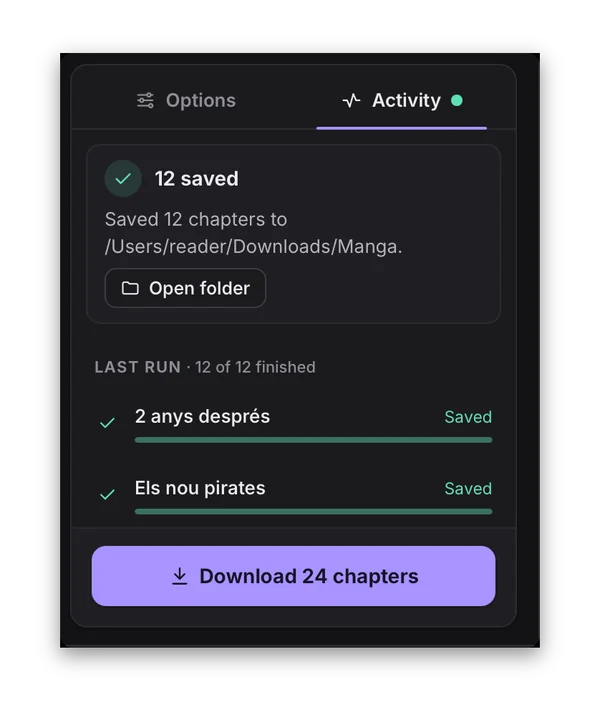
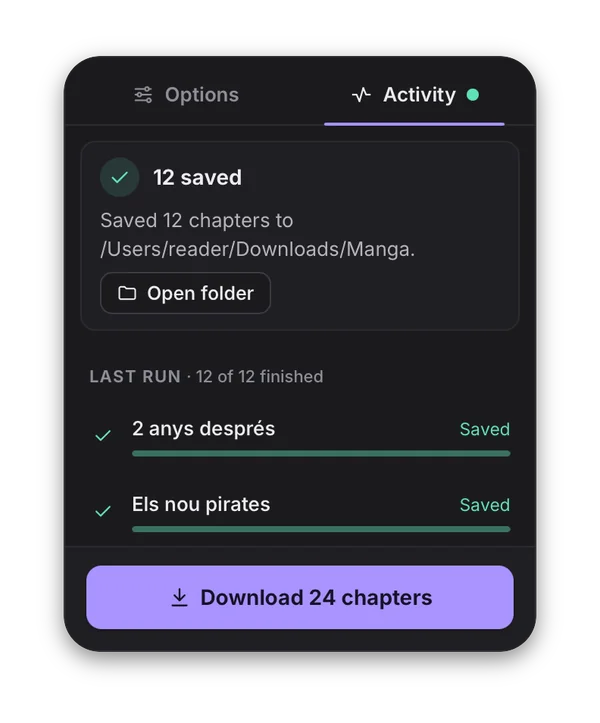
fix(website): crop the screenshots to the panel's own edges (#299)
* fix(website): crop the app panels to their own bounds and radius

* docs(website): rewrap the screenshots paragraph

---------

diff --git a/website/index.html b/website/index.html
@@ -193,7 +193,7 @@
                   <source type="image/webp" srcset="/src/assets/screenshots/chapter-list-light-600.webp 600w, /src/assets/screenshots/chapter-list-light-1000.webp 1000w"
                           sizes="(min-width: 821px) 45vw, 92vw" />
                   <img src="/src/assets/screenshots/chapter-list-light-1000.webp" srcset="/src/assets/screenshots/chapter-list-light-600.webp 600w, /src/assets/screenshots/chapter-list-light-1000.webp 1000w"
-                       sizes="(min-width: 821px) 45vw, 92vw" width="1000" height="799" alt="{{a:desktop.chapterListAlt}}" loading="lazy" />
+                       sizes="(min-width: 821px) 45vw, 92vw" width="1000" height="743" alt="{{a:desktop.chapterListAlt}}" loading="lazy" />
                 </picture>
               </figure>
             </article>
@@ -210,7 +210,7 @@
                   <source type="image/webp" srcset="/src/assets/screenshots/volumes-light-600.webp 600w, /src/assets/screenshots/volumes-light-1000.webp 1000w"
                           sizes="(min-width: 821px) 45vw, 92vw" />
                   <img src="/src/assets/screenshots/volumes-light-1000.webp" srcset="/src/assets/screenshots/volumes-light-600.webp 600w, /src/assets/screenshots/volumes-light-1000.webp 1000w"
-                       sizes="(min-width: 821px) 45vw, 92vw" width="1000" height="799" alt="{{a:desktop.volumesAlt}}" loading="lazy" />
+                       sizes="(min-width: 821px) 45vw, 92vw" width="1000" height="743" alt="{{a:desktop.volumesAlt}}" loading="lazy" />
                 </picture>
               </figure>
             </article>
@@ -252,7 +252,7 @@
                   <source type="image/webp" srcset="/src/assets/screenshots/finished-run-light-600.webp 600w, /src/assets/screenshots/finished-run-light-1000.webp 1000w"
                           sizes="(min-width: 821px) 45vw, 92vw" />
                   <img src="/src/assets/screenshots/finished-run-light-1000.webp" srcset="/src/assets/screenshots/finished-run-light-600.webp 600w, /src/assets/screenshots/finished-run-light-1000.webp 1000w"
-                       sizes="(min-width: 821px) 45vw, 92vw" width="1000" height="1191" alt="{{a:desktop.finishedAlt}}" loading="lazy" />
+                       sizes="(min-width: 821px) 45vw, 92vw" width="1000" height="1206" alt="{{a:desktop.finishedAlt}}" loading="lazy" />
                 </picture>
               </figure>
             </article>

diff --git a/website/README.md b/website/README.md
@@ -80,8 +80,10 @@ every browser the site cares about reads, so there are no PNG fallbacks.
   2000 px originals in the repo's [`assets/screenshots/`](../assets/screenshots/),
   at 600 and 1000 px wide.
   They are cut to the part that matters, so they stay readable at the
-  ~500 px they are shown at. Each gets the window's rounded corners and a soft
-  shadow on a transparent margin of 56 px.
+  ~500 px they are shown at. `language-selector` keeps the window's rounded
+  corners; the others are cut to the panel's own 1 px border box and radius
+  (24 px on the original), so no window background shows around them. Each
+  gets a soft shadow on a transparent margin of 56 px.
 
 The files are converted offline and committed, so the build needs no image tools.
 The crop script is [`build/crop-screenshots.sh`](build/crop-screenshots.sh). The
@@ -89,15 +91,15 @@ geometry is `WxH+X+Y` on the 2000x1390 original, with the window's top-left at
 (85,56), so `03-language-selector-*.png` crops to `740x960+85+56`, the
 left-hand part of the window with the Language dropdown open, stopping short of
 the range box. The
-`finished-run` crop starts at x=1245, between the chapter list and the Activity
-panel, so no edge of the list shows in it:
+panel crops start on the panel's border (`finished-run` at x=1259, the Activity
+panel's left edge, so no edge of the list shows in it):
 
 | Crop                | Original                                | Geometry            |
 | ------------------- | --------------------------------------- | ------------------- |
 | `language-selector` | `03-language-selector-{light,dark}.png` | `740x960+85+56`     |
-| `chapter-list`      | `04-downloading-{light,dark}.png`       | `1150x885+100+390`  |
-| `volumes`           | `07-volumes-{light,dark}.png`           | `1150x885+100+390`  |
-| `finished-run`      | `05-done-{light,dark}.png`              | `670x830+1245+390`  |
+| `chapter-list`      | `04-downloading-{light,dark}.png`       | `1118x787+117+405`  |
+| `volumes`           | `07-volumes-{light,dark}.png`           | `1118x787+117+405`  |
+| `finished-run`      | `05-done-{light,dark}.png`              | `624x787+1259+405`  |
 
 To regenerate from the originals, run it with the repo's originals folder and an
 output folder, from `website/`:
